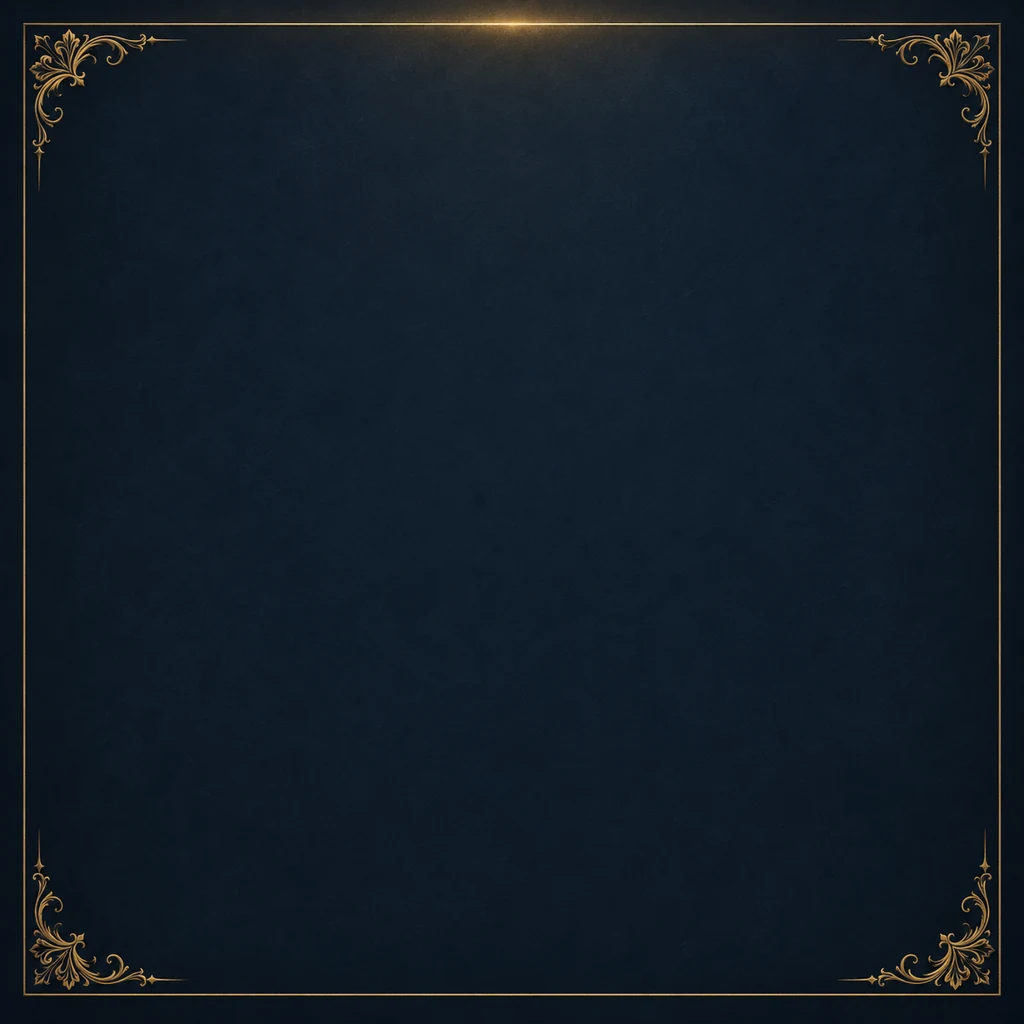
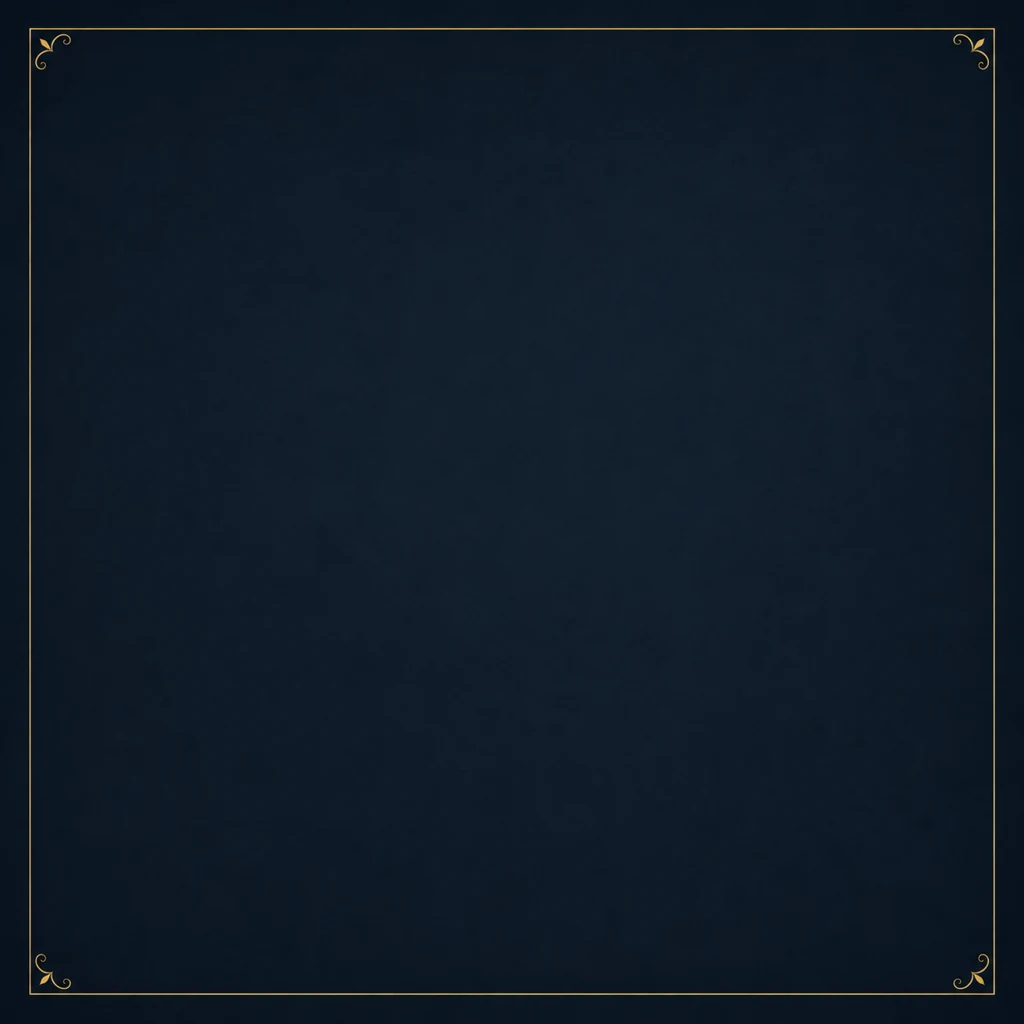
v2.48.1 (P18b): fix panel frame overlap via 9-slice CustomPainter + thin-border assets

Changed region(s): [[0.0, 0.0, 1.0, 1.0], [0.4688, 0.9688, 0.5312, 1.0], [0.8125, 0.9688, 0.8438, 1.0]]

diff --git a/lib/ui/room/widgets/room_panel_kit.dart b/lib/ui/room/widgets/room_panel_kit.dart
@@ -8,6 +8,8 @@
 // ★ T-43：所有可点元素统一走 RoomTap（≥48dp 热区），禁止裸 IconButton。
 // ============================================================
 
+import 'dart:ui' as ui;
+
 import 'package:flutter/material.dart';
 
 import '../../../theme.dart' show Palette, Radii;
@@ -101,12 +103,38 @@ class SectionBox extends StatelessWidget {
       child: Stack(
         children: <Widget>[
           Positioned.fill(
-            child: Image.asset(
-              Art.panelFrameFor(Theme.of(context).brightness),
-              fit: BoxFit.fill,
-              filterQuality: FilterQuality.medium,
-              errorBuilder: (BuildContext c, Object e, StackTrace? s) =>
-                  const SizedBox.shrink(),
+            // ★ P18b 修复（重叠）：原用 `BoxFit.fill` 把方形边框图整张拉伸铺满
+            //   卡片，横屏卡片一宽，四角巴洛克花饰与细金线被横向拉扁，压到标题
+            //   / 内容 / 右侧按钮上。修法分两层：
+            //   ① 已重做「薄轮廓」素材：内金线贴近边缘、四角花饰压到 ≤7%（curl
+            //      仅约 68px / 1024），不再是原来 220px 的大花饰；
+            //   ② 用 `LayoutBuilder` 判断卡片短边：足够大（≥ 2×切分内边距）时走
+            //      `centerSlice` 九宫格——四角花饰按原尺寸固定、只拉伸直边与中央，
+            //      长宽比再大也不变形、不越界；卡片太小（dock 短格等，短边放不下
+            //      两个角）时退回 `BoxFit.fill` 整张拉伸——此时卡片本身极小，
+            //      花饰占比也小，不会压到内容。两路都不加 padding、不影响布局。
+            child: LayoutBuilder(
+              builder: (BuildContext ctx, BoxConstraints c) {
+                // 源图 1024²，薄轮廓下角部（内金线拐角 + 花饰）只占约 40-70px。
+                // 九宫格内边距取 40px：四角花饰在屏幕上约 20-25px、小巧贴角，
+                // 不会压到 10px 内边距里的标题与右侧按钮；短边 ≥ 2×40 = 80px
+                // 才走九宫格（绝大多数卡片都满足），否则退回普通整图拉伸。
+                const double kSlice = 40;
+                final bool bigEnough =
+                    c.maxWidth >= kSlice * 2 && c.maxHeight >= kSlice * 2;
+                // ★ 为什么要自己画九宫格（CustomPainter），而不用 Flutter 自带的
+                //   `Image.centerSlice` / `DecorationImage.centerSlice`：
+                //   两者在图片被「缩放」绘制时都会断言崩溃
+                //   `decoration_image.dart:572 'sourceSize == inputSize'`——
+                //   即 centerSlice 只允许 1:1 原尺寸绘制，一旦卡片尺寸 ≠ 源图
+                //   尺寸（必然发生）就挂。自绘 9 段 `drawImageRect` 完全绕开该
+                //   限制：四角花饰按固定 40px 画、四条边与中央各自拉伸，任意长
+                //   宽比都不变形、不越界、不崩。
+                return _NineSliceFrame(
+                  asset: Art.panelFrameFor(Theme.of(ctx).brightness),
+                  slice: bigEnough ? kSlice : 0,
+                );
+              },
             ),
           ),
           Padding(
@@ -182,6 +210,10 @@ class RoomButtonSkin extends StatelessWidget {
           image: AssetImage(Art.btnPlateFor(
               Palette.isDark ? Brightness.dark : Brightness.light)),
           fit: BoxFit.fill,
+          // ★ P18b：按钮底板是「细金描边圆角框 + 顶部轻高光」，描边本就极薄且
+          //   贴着边缘，直接 `BoxFit.fill` 拉伸即可（圆角在极宽按钮上略有透视，
+          //   但按钮高度都很小、观感不影响）；不再用 `centerSlice`，避免窄按钮
+          //   （<2×inset）时的负边绘制风险。
           opacity: enabled ? 0.92 : 0.28,
         ),
       );
@@ -714,4 +746,146 @@ class PlaceholderBlock extends StatelessWidget {
       child: Text(label, style: Theme.of(context).textTheme.bodySmall),
     );
   }
+}
+
+// ------------------------------------------------------------
+// ★ P18b：自绘九宫格装饰底纹（绕开 Flutter centerSlice 的 1:1 断言限制）
+// ------------------------------------------------------------
+
+/// 把一张带四角花饰的方形装饰图按「九宫格」铺满任意尺寸的卡片。
+///
+/// · [slice] > 0 且卡片短边 ≥ 2×[slice] 时：四角按固定 [slice] 像素绘制
+///   （花饰不变形、始终贴角），四条边与中央各自拉伸填满。
+/// · [slice] == 0：退回整图 `drawImageRect` 拉伸（用于极小的 dock 短格）。
+///
+/// 为什么不用 `Image.centerSlice` / `DecorationImage.centerSlice`：二者在
+/// 图片被缩放绘制时都会断言 `decoration_image.dart:572 'sourceSize == inputSize'`
+/// 崩溃（centerSlice 仅允许 1:1 原尺寸）。自绘 9 段 `drawImageRect` 无此限制。
+class _NineSliceFrame extends StatefulWidget {
+  const _NineSliceFrame({required this.asset, required this.slice});
+
+  final String asset;
+  final double slice;
+
+  @override
+  State<_NineSliceFrame> createState() => _NineSliceFrameState();
+}
+
+class _NineSliceFrameState extends State<_NineSliceFrame> {
+  ImageStream? _stream;
+  ImageStreamListener? _listener;
+  ui.Image? _image;
+
+  @override
+  void didChangeDependencies() {
+    super.didChangeDependencies();
+    _resolve();
+  }
+
+  @override
+  void didUpdateWidget(_NineSliceFrame oldWidget) {
+    super.didUpdateWidget(oldWidget);
+    if (oldWidget.asset != widget.asset) _resolve();
+  }
+
+  void _resolve() {
+    final ImageStream stream = AssetImage(widget.asset).resolve(
+      createLocalImageConfiguration(context),
+    );
+    if (_stream?.key == stream.key) return;
+    _detach();
+    _stream = stream;
+    _listener = ImageStreamListener(
+      (ImageInfo info, bool sync) {
+        if (!mounted) return;
+        setState(() => _image = info.image);
+      },
+      onError: (Object e, StackTrace? s) {
+        // 缺图：静默降级，只露出 Card 底色。
+      },
+    );
+    stream.addListener(_listener!);
+  }
+
+  void _detach() {
+    if (_stream != null && _listener != null) {
+      _stream!.removeListener(_listener!);
+    }
+    _stream = null;
+    _listener = null;
+  }
+
+  @override
+  void dispose() {
+    _detach();
+    super.dispose();
+  }
+
+  @override
+  Widget build(BuildContext context) {
+    final ui.Image? img = _image;
+    if (img == null) return const SizedBox.expand();
+    return CustomPaint(
+      painter: _NineSlicePainter(image: img, slice: widget.slice),
+      size: Size.infinite,
+    );
+  }
+}
+
+class _NineSlicePainter extends CustomPainter {
+  _NineSlicePainter({required this.image, required this.slice});
+
+  final ui.Image image;
+  final double slice;
+
+  @override
+  void paint(Canvas canvas, Size size) {
+    final double sw = image.width.toDouble();
+    final double sh = image.height.toDouble();
+    final Paint paint = Paint()..filterQuality = FilterQuality.medium;
+    final Rect dst = Offset.zero & size;
+
+    // 无九宫格（极小卡片）：整图拉伸。
+    if (slice <= 0 || size.width < slice * 2 || size.height < slice * 2) {
+      canvas.drawImageRect(image, Rect.fromLTWH(0, 0, sw, sh), dst, paint);
+      return;
+    }
+
+    final double s = slice;
+    // 源图四角边长按同样 slice 比例取（源图边长未必等于目标 slice，
+    // 这里把 source 的角区按 slice 与自身尺寸的比例切分——因源图 1024、
+    // 角部占用 ~40-70px，取源切片 = slice 即可，比例一致）。
+    final double srcL = s, srcT = s, srcR = sw - s, srcB = sh - s;
+    final double dstR = size.width - s, dstB = size.height - s;
+
+    void tile(double sx0, double sy0, double sx1, double sy1, Rect d) {
+      if (d.width <= 0 || d.height <= 0 || sx1 <= sx0 || sy1 <= sy0) return;
+      canvas.drawImageRect(
+        image,
+        Rect.fromLTRB(sx0, sy0, sx1, sy1),
+        d,
+        paint,
+      );
+    }
+
+    // 四角（固定 slice 尺寸）
+    tile(0, 0, srcL, srcT, Rect.fromLTWH(0, 0, s, s)); // TL
+    tile(srcR, 0, sw, srcT, Rect.fromLTWH(dstR, 0, s, s)); // TR
+    tile(0, srcB, srcL, sh, Rect.fromLTWH(0, dstB, s, s)); // BL
+    tile(srcR, srcB, sw, sh, Rect.fromLTWH(dstR, dstB, s, s)); // BR
+    // 四条边（拉伸）
+    tile(srcL, 0, srcR, srcT, Rect.fromLTWH(s, 0, size.width - 2 * s, s)); // top
+    tile(srcL, srcB, srcR, sh,
+        Rect.fromLTWH(s, dstB, size.width - 2 * s, s)); // bottom
+    tile(0, srcT, srcL, srcB, Rect.fromLTWH(0, s, s, size.height - 2 * s)); // left
+    tile(srcR, srcT, sw, srcB,
+        Rect.fromLTWH(dstR, s, s, size.height - 2 * s)); // right
+    // 中央（拉伸）
+    tile(srcL, srcT, srcR, srcB,
+        Rect.fromLTWH(s, s, size.width - 2 * s, size.height - 2 * s));
+  }
+
+  @override
+  bool shouldRepaint(_NineSlicePainter old) =>
+      old.image != image || old.slice != slice;
 }

diff --git a/lib/app_version.dart b/lib/app_version.dart
@@ -12,10 +12,10 @@
 // ============================================================
 
 /// 语义化版本（对应 pubspec 里 `+` 之前的部分）
-const String kAppVersion = '2.48.0';
+const String kAppVersion = '2.48.1';
 
 /// 构建号（对应 pubspec 里 `+` 之后的部分）
-const int kAppBuildNumber = 119;
+const int kAppBuildNumber = 120;
 
 /// 展示用短标签：`v<版本>`
 const String kAppVersionShort = 'v$kAppVersion';
